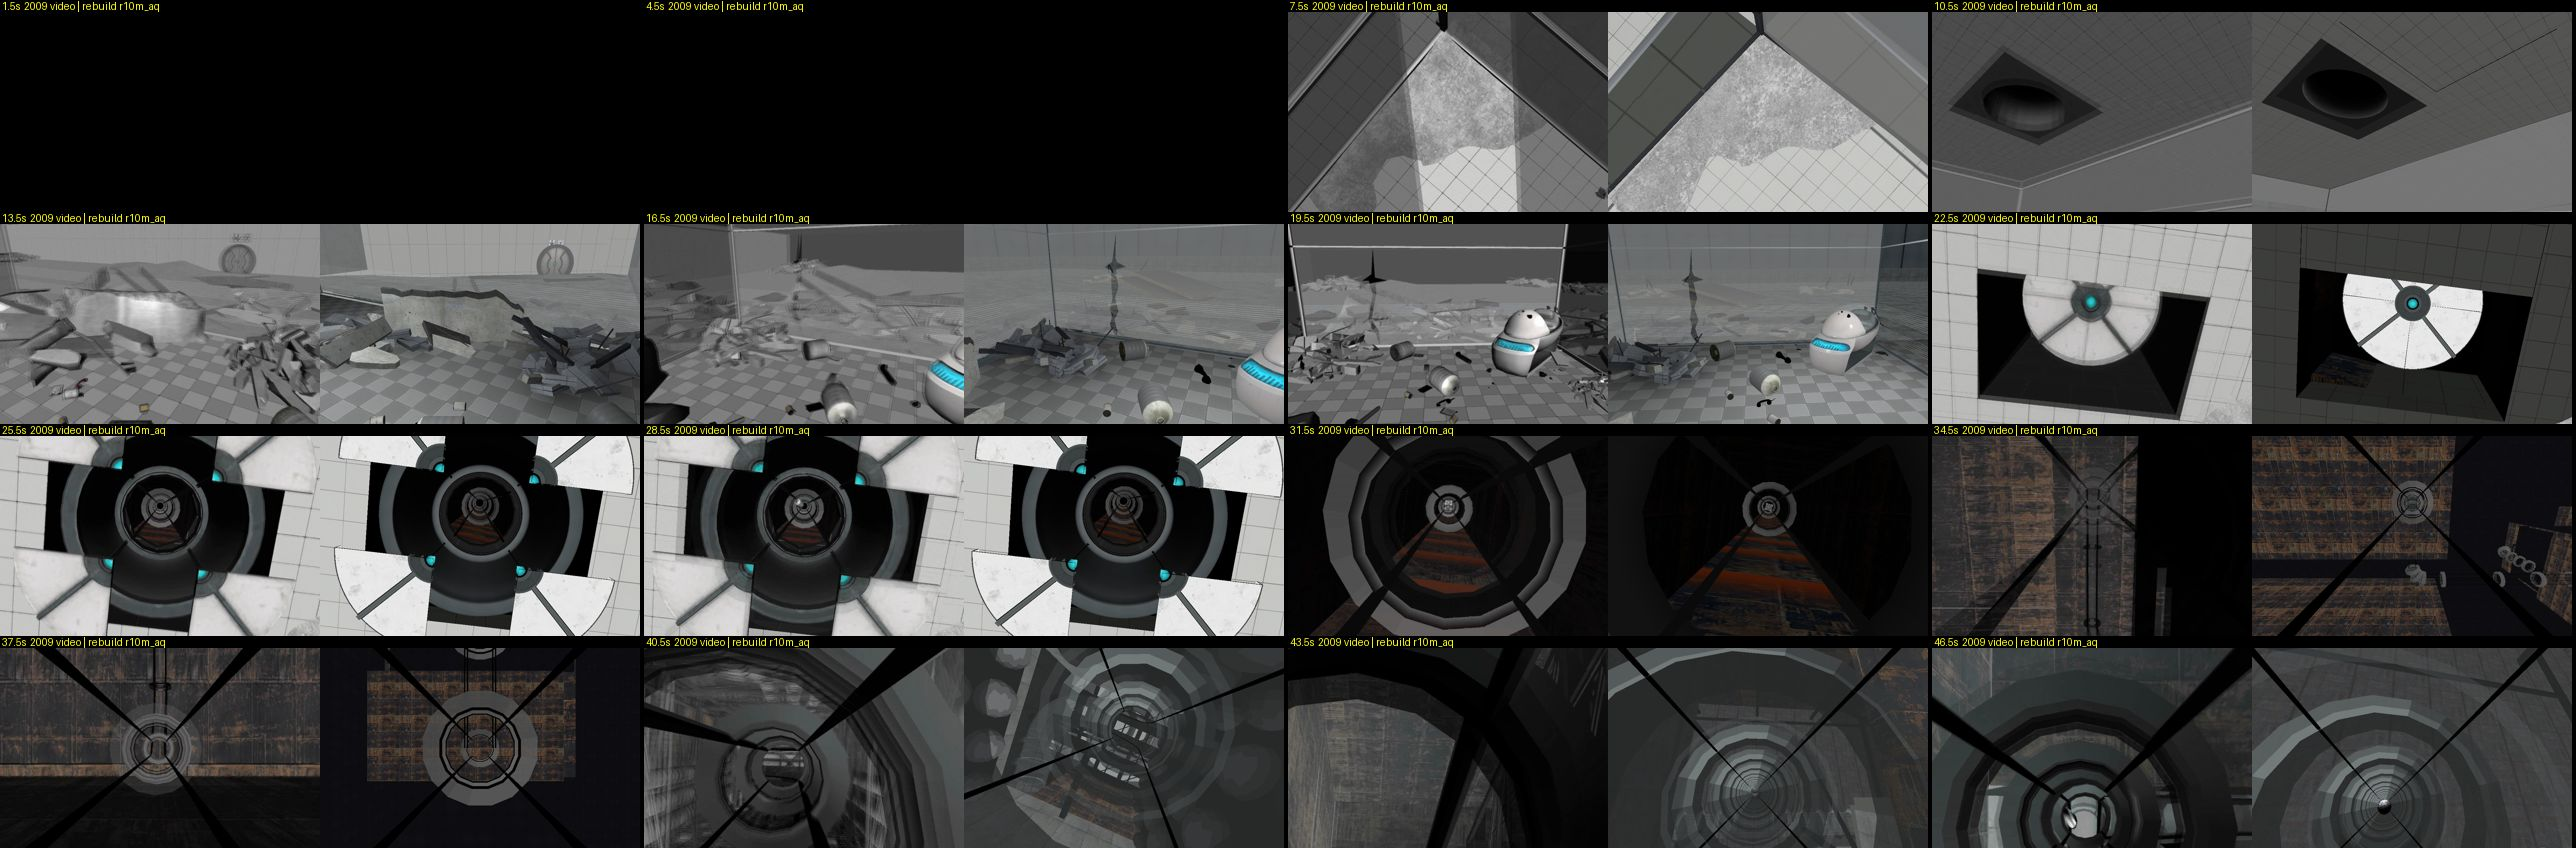
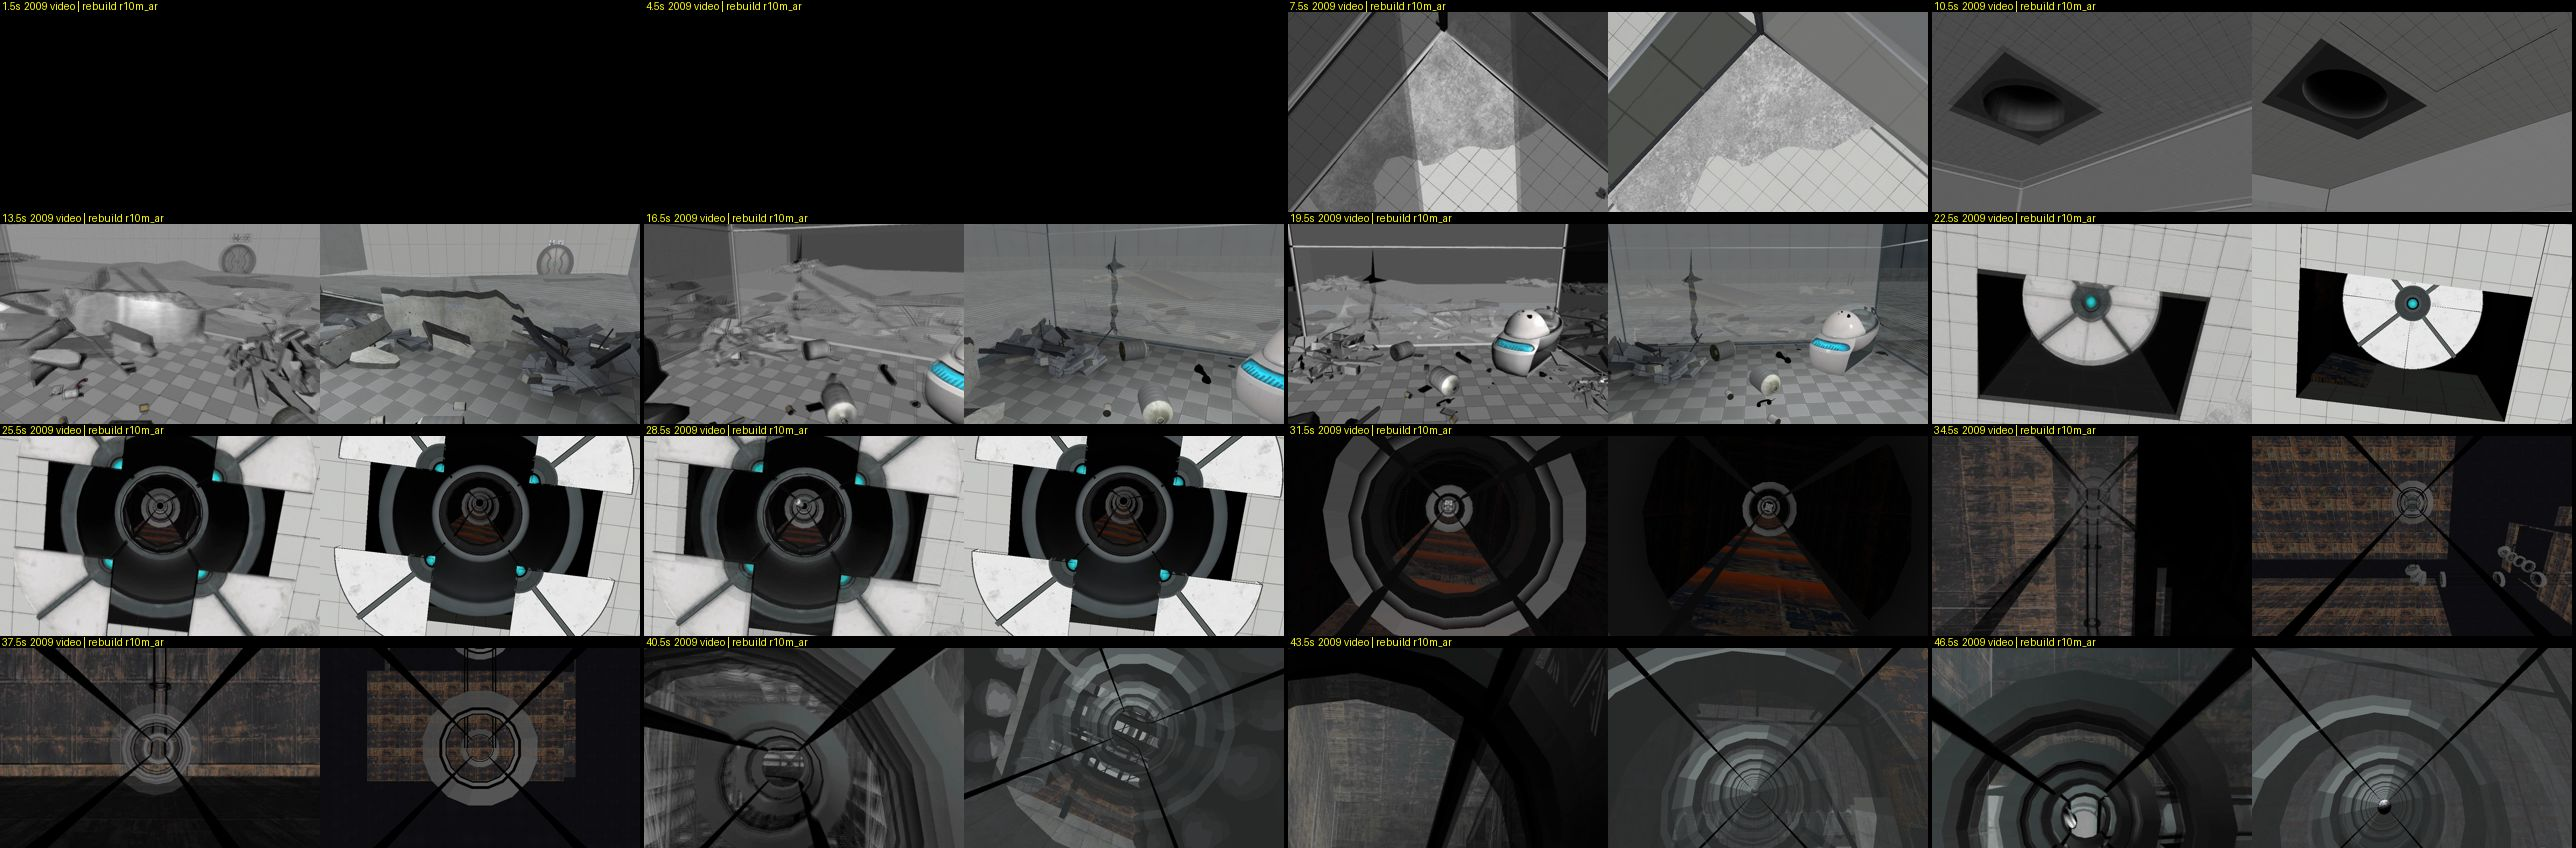
Corehub intro rebuild (corehub_r10ar + director_r10ar)
Separated middle rooms, frontal walls, WIP surfaces, 60 fps test runs; see corehub/intro/README.md for per-scene scores.

Claude-Session: https://claude.ai/code/session_014AMsH7FRGKMAJSenMpS1Ga

Changed region(s): [[0.8696, 0.2453, 1.0, 0.5212]]

diff --git a/corehub/intro/tools/patch_director.py b/corehub/intro/tools/patch_director.py
@@ -50,6 +50,18 @@ body = txt[start:end]
 rows = re.findall(r'\{t=([0-9.]+),a=Vector\(([-0-9.]+),([-0-9.]+),([-0-9.]+)\)\}', body)
 knots = {float(t): (float(a), float(b), float(c)) for t, a, b, c in rows}
 knots.update(edits)
+# r10as: pod-rise run (44-47 s) -- the video looks a little up and right down the tube (far end at ~43%, 70% of the frame),
+# then swings right at the pale crossing tube (47-48 s), looks up through the crossing (48.25 s) and faces the pale
+# wall that closes the tube (48.5-48.85 s) before the dark tube of the cube passage (49 s)
+edits2 = {44.0: (-19.0, -11.0, 0.0), 45.0: (-15.0, -11.0, 0.0), 45.5: (-14.0, -10.0, 0.0), 46.0: (-17.0, -8.0, 0.0), 46.5: (-15.0, -6.0, 0.0),
+          47.0: (-11.0, -26.0, 0.0), 47.25: (-4.0, -42.0, 0.0), 47.5: (-3.0, -55.0, 0.0), 47.75: (-2.0, -60.0, 0.0), 48.0: (-5.0, -45.0, 0.0),
+          48.25: (-35.0, -20.0, 0.0), 48.5: (-5.0, 0.0, 0.0), 48.75: (0.0, 0.0, 0.0), 48.85: (0.0, 0.0, 0.0),
+          # tower entrance: two shots joined by quick dissolves (56.5 and 58.6 s). Shot A looks straight at the collar from
+          # inside the tube; shot B starts further back, looking up and right at the collar, and tilts up the dark column
+          55.25: (-4.0, -9.0, 0.0), 55.5: (-4.0, -8.0, 0.0), 56.0: (-3.0, -7.0, 0.0), 56.25: (-2.0, -6.0, 0.0), 56.5: (-2.0, -6.0, 0.0), 56.51: (-2.0, -6.0, 0.0),
+          56.52: (-10.0, -16.0, 0.0), 57.0: (-13.0, -17.0, 0.0), 57.5: (-18.0, -19.0, 0.0), 58.0: (-28.0, -13.0, 0.0), 58.25: (-34.0, -13.0, 0.0),
+          58.5: (-37.0, -12.0, 0.0), 58.57: (-38.0, -12.0, 0.0), 58.58: (-16.0, 58.0, 0.0)}
+knots.update(edits2)
 new = 'knots <- [\n' + ',\n'.join('{t=%.8f,a=Vector(%.8f,%.8f,%.8f)}' % ((t,) + knots[t]) for t in sorted(knots)) + '\n'
 txt = txt[:start] + new + txt[end:]
 # Fades measured from the video's mean luminance around each cut (the cuts dissolve, they are not hard).
@@ -105,10 +117,24 @@ def repl(m):
             if abs(t - k) < 1e-4: return '{t=%s,p=Vector(%s,%s,%.8f)}' % (m.group(1), m.group(2), m.group(3), nz)
     return m.group(0)
 newpos = re.sub(r'\{t=([-\d.]+),p=Vector\(([-\d.]+),([-\d.]+),([-\d.]+)\)\}', repl, txt[ps:pe])
+# r10as: tower entrance -- shot A (55.25-56.5 s) approaches slowly inside the tube, shot B (56.52-58.57 s) starts ~245 units
+# from the collar and closes to ~150, then the 58.6 s dissolve goes to the climb inside the tower
+pos_set = {55.0: (3435.0, 0.0, 1152.0), 55.25: (3445.0, 0.0, 1152.0), 55.5: (3458.0, 0.0, 1152.0), 55.75: (3472.0, 0.0, 1152.0),
+           56.0: (3486.0, 0.0, 1152.0), 56.25: (3500.0, 0.0, 1152.0), 56.5: (3510.0, 0.0, 1152.0), 56.51: (3511.0, 0.0, 1152.0),
+           56.52: (3455.0, 0.0, 1152.0), 56.75: (3467.0, 0.0, 1152.0), 57.0: (3480.0, 0.0, 1152.0), 57.25: (3495.0, 0.0, 1152.0),
+           57.5: (3510.0, 0.0, 1152.0), 57.75: (3532.0, 0.0, 1152.0), 58.0: (3555.0, 0.0, 1152.0), 58.25: (3575.0, 0.0, 1152.0),
+           58.5: (3590.0, 0.0, 1152.0), 58.57: (3595.0, 0.0, 1152.0), 58.58: (3754.0, 0.0, 1306.0)}
+kn = [(float(a), (float(b), float(c), float(d))) for a, b, c, d in re.findall(r'\{t=([-\d.]+),p=Vector\(([-\d.]+),([-\d.]+),([-\d.]+)\)\}', newpos)]
+kd = dict(kn)
+for k, q in pos_set.items():
+    for t0 in list(kd):
+        if abs(t0 - k) < 1e-4: del kd[t0]
+    kd[k] = q
+newpos = 'positions <- [\n' + ',\n'.join('{t=%.8f,p=Vector(%.8f,%.8f,%.8f)}' % ((t,) + kd[t]) for t in sorted(kd)) + '\n'
 txt = txt[:ps] + newpos + txt[pe:]
 fades = [[62.9,63.05,0,235],[63.05,63.3,235,0],[52.45,52.55,0,110],[52.55,52.68,110,0],[38.70,38.9388,0,255],[39.2725,39.60,255,0],[53.83,54.1206,0,255],[54.8547,55.27,240,240],
          [55.27,55.47,240,0],[82.55,83.1829,40,255],[84.5510,84.97,255,0],[95.33,95.7288,0,255],
-         [104.97,105.305,0,255],[109.40,109.7094,0,255],[109.8428,110.6,255,0]]
+         [104.97,105.305,0,255],[56.37,56.52,0,75],[56.52,56.70,75,0],[58.42,58.58,0,100],[58.58,58.72,100,0],[109.40,109.7094,0,255],[109.8428,110.6,255,0]]
 anchor = '    SetScreenBlack(fadeAlpha);'
 assert txt.count(anchor) == 1
 txt = txt.replace(anchor, '    foreach(f in r10Fades) if(t>=f[0] && t<f[1]){local k=(t-f[0])/(f[1]-f[0]);local a=(f[2]+(f[3]-f[2])*k).tointeger();if(a>fadeAlpha)fadeAlpha=a;}\n' + anchor)
@@ -118,7 +144,7 @@ txt = txt.replace('cutTab <- [', 'r10LabCube <- [[99.8,7565],[100,7575],[100.5,7
 # cube passage (52-53.8 s): the video dissolves from the far cube to a close one at ~52.55 s; the cube jumps
 # closer under a short dip instead of drifting slowly toward the camera
 cube_old = 'for(local i=0;i<4;i++)MoveProp("intro_cube_"+i,t<55.5?Vector(3480+i*62-(cubeTime-52)*25,0,1152):Vector(0,0,-3000));'
-cube_new = 'for(local i=0;i<4;i++)MoveProp("intro_cube_"+i,(t<55.5&&t>=51.5)?Vector(Lerp1(r10CubeX,t)+i*62,0,1152):Vector(0,0,-3000));'   # r10ai: the video shows no cube before 51.6 s
+cube_new = 'for(local i=0;i<4;i++)MoveProp("intro_cube_"+i,(t<54.9&&t>=51.5)?Vector(Lerp1(r10CubeX,t)+i*62,0,1152):Vector(0,0,-3000));'   # r10as: gone before the 55.3 s fade-in; r10ai: the video shows no cube before 51.6 s
 assert txt.count(cube_old) == 1
 txt = txt.replace(cube_old, cube_new)
 txt = txt.replace('cutTab <- [', 'r10CubeX <- [[51,3420],[52,3394],[52.5,3437],[52.54,3437],[52.56,3295],[53.0,3339],[53.5,3386],[53.83,3418],[55.5,3480]];' + chr(10) + 'cutTab <- [', 1)
@@ -153,5 +179,13 @@ lk_new = """ {t=69.3,p=Vector(4549,9,1142)},
  {t=71.35,p=Vector(4549,9,1142)}"""
 assert txt.count(lk_old) == 1
 txt = txt.replace(lk_old, lk_new)
+# r10as: chrome drop ahead of the camera in the pod-rise run, turning off into the pale crossing tube at 47.1 s
+drop_old = 'MoveProp("intro_drop",(t>=44.0 && t<47.4)?Vector(Lerp1(dropTab,t),0,1150):Vector(0,0,-3000));'
+drop_new = ('{local p=Vector(0,0,-3000);if(t>=44.0&&t<47.6){for(local i=0;i<r10DropPath.len()-1;i++)if(t>=r10DropPath[i][0]&&t<=r10DropPath[i+1][0])'
+            '{local f=(t-r10DropPath[i][0])/(r10DropPath[i+1][0]-r10DropPath[i][0]);p=r10DropPath[i][1]+(r10DropPath[i+1][1]-r10DropPath[i][1])*f;break;};};'
+            'MoveProp("intro_drop",p);MoveProp("r10_tube_end",(t<48.85)?Vector(2812,0,1152):Vector(0,0,-3000));}')
+assert txt.count(drop_old) == 1
+txt = txt.replace(drop_old, drop_new)
+txt = txt.replace('cutTab <- [', 'r10DropPath <- [[44.0,Vector(2300,0,1150)],[45.0,Vector(2470,0,1150)],[46.0,Vector(2625,0,1150)],[46.5,Vector(2695,0,1150)],[47.0,Vector(2752,0,1150)],[47.2,Vector(2760,-40,1150)],[47.6,Vector(2760,-260,1150)]];' + chr(10) + 'cutTab <- [', 1)
 dst.write_text(txt)
 print('knots', len(rows), '->', len(knots), 'written', dst)

diff --git a/corehub/intro/tools/patch_r10.py b/corehub/intro/tools/patch_r10.py
@@ -506,6 +506,48 @@ box((7992, 300, -760), (7996, 980, 500), WIP_GRID, world=False)   # east side of
 # Missing-panel framing on the "16" wall's far side (upper corner, never finished).
 box((5012, 600, 1600), (5016, 1100, 2400), WIP_GRID, world=False)
 
+# ---------- r10as: pod rise (39.5-49 s) ----------
+# the video's pod-rise tube is dark grey; skin 2 read pale teal. The vertical rise and the run to the crossing use skin 1.
+dk2 = 0
+for e in v.entities:
+    if e['classname'].startswith('prop_') and e['model'] == 'models/corehub_intro/transport_ring.mdl':
+        o = Vec.from_str(e['origin'])
+        if (abs(o.x - 1856) < 2 and abs(o.y + 256) < 2 and 600 < o.z < 1000) or (2000 < o.x < 2740 and abs(o.y) < 2 and abs(o.z - 1152) < 2):
+            e['skin'] = '1'; dk2 += 1
+print('pod rise rings darkened', dk2)
+# the run ends at a pale tube crossing at tube height (video 46.5-48 s): the side tube at x 2760 (z 1010) is raised to the
+# tube and made pale; its ring on the camera's path is dropped
+side = 0
+for e in list(v.entities):
+    if e['classname'].startswith('prop_') and e['model'] == 'models/corehub_intro/transport_ring.mdl':
+        o = Vec.from_str(e['origin'])
+        if abs(o.x - 2760) < 2 and abs(o.z - 1010) < 2 and abs(o.y) <= 401:
+            if abs(o.y) < 2: v.remove_ent(e); continue
+            e['origin'] = f'{o.x:g} {o.y:g} 1152'; e['model'] = 'models/corehub_intro/transport_ring_pale.mdl'; e['skin'] = '0'; side += 1
+print('pale crossing tube rings', side)
+# the pale wall closing the tube beyond the crossing: the white far end at 44-47 s and the white frame at 48.3-48.85 s;
+# the director moves it away before the camera reaches it
+v.create_ent('prop_dynamic_override', targetname='r10_tube_end', model='models/corehub_intro/r10_tube_end.mdl', origin='2812 0 1152',
+             angles='0 0 0', solid='0', disableshadows='1')
+# the chrome drop reads as a white ball a few rings ahead in the video
+for e in v.entities:
+    if e['targetname'] == 'intro_drop': e['modelscale'] = '2.8'; print('drop scaled')
+# the walls round the vertical rise were white tiles; the video sees dark walls between the pods
+POD_BG = unlit('pod_bg', 'metal/black_wall_metal_001a', '0.34 0.34 0.34')
+pw = 0
+for e in v.entities:
+    if e['classname'] != 'func_detail': continue
+    for so in e.solids:
+        lo, hi = so.get_bbox()
+        if hi.x > 1680 and lo.x < 2140 and hi.y > -420 and lo.y < 30 and lo.z >= 630 and hi.z <= 1345:
+            for f in so.sides:
+                if f.mat.lower() == 'corehub_intro/white_u': f.mat = POD_BG; pw += 1
+print('pod shaft wall faces darkened', pw)
+for e in v.entities:
+    if e['classname'].startswith('prop_') and e['model'] == 'models/corehub_intro/pod_wall.mdl' and e['rendercolor'] == '255 255 255':
+        e['rendercolor'] = '170 170 172'
+# skylights over the pod room: dimmer still (the video shows thin light strips in a dark truss at 42 s)
+SKY2 = unlit('skylight_dim', 'lights/white002', '0.40 0.41 0.41')
 dst = R10 / 'build' / (NAME + '.vmf')
 v.export(dst.open('w'), inc_version=False)
 print('wrote', dst, len(added), 'boxes')

diff --git a/corehub/intro/README.md b/corehub/intro/README.md
@@ -38,12 +38,12 @@ r10 is built on top of the newest pursuit9 map (capsule-follow v50: walkable ope
 
 ## Scores (1–10, against the 2009 video; ending blink/black not scored)
 
-Published build: `corehub_r10aq` + `director_r10aq` (outputs/Corehub-Intro). Test run: `videos/r10m_aq_side.mp4`. In test: r10ar.
+Published build: `corehub_r10ar` + `director_r10ar` (outputs/Corehub-Intro). Test run: `videos/r10m_ar_side.mp4`.
 
 | # | Scene | Time (s) | v50 base | r10 now | Main remaining differences |
 |---|---|---|---|---|---|
-| 1 | Opening room | 0–22 | 7.5 | 8.5 | ceiling bright/neutral looking up and dark at grazing angles; far wall and chamber glass toned to the video (r10ar test); rubble shapes |
-| 2 | Iris and ascent | 22–32.5 | 7.5 | 8.5 | ceiling bright again as the camera looks up at the iris (r10ar test); iris petal edge shading |
+| 1 | Opening room | 0–22 | 7.5 | 8.5 | ceiling bright/neutral looking up and dark at grazing angles; far wall and chamber glass toned to the video; rubble shapes |
+| 2 | Iris and ascent | 22–32.5 | 7.5 | 8.5 | ceiling bright again as the camera looks up at the iris (22.5 s); iris petal edge shading |
 | 3 | Rust room | 32.5–39 | 4 | 7.5 | far wall cut to the lit panel, dark C-bend, post under the ring (33 s); 34–36 s framings still off |
 | 4 | Pod rise | 39.5–47.5 | 4 | 7.5 | longer climb in the tube with grey structure above (40–41.5 s); the turn no longer runs into the pods; pods read as round blobs |
 | 5 | Cube passage | 48–55 | 4.5 | 8.5 | cube hidden until 51.5 s like the video; 48.5 s pale tube interior |
@@ -53,7 +53,7 @@ Published build: `corehub_r10aq` + `director_r10aq` (outputs/Corehub-Intro). Tes
 | 9 | Copper tube, sludge room, gallery | 84.5–95.7 | 4 | 7.5 | lattice towers both sides (84.6–85.5 s); rises out of the tube and drops down a copper funnel into the chamber (86.2–87.2 s) |
 | 10 | Factory passage | 96.6–99.8 | 6 | 7.5 | warmer, brighter factory materials; one-frame black arm silhouette at 98 s |
 | 11 | Lab and test chamber | 100–109.5 | 4 | 8.5 | chamber view matches (receptacle, checker, button, strip, black tiles); copper drop onto the receptacle |
-| 12 | Incinerator and final probes | 110–118.4 | 5.5 | 8 | yellow glowing ball drops with the discarded parts (larger in r10ar test); 116.75 s view |
+| 12 | Incinerator and final probes | 110–118.4 | 5.5 | 8 | yellow glowing ball drops with the discarded parts; the video's ball passes closer (115 s); 116.75 s view |
 | 13 | Capsule and ending | 118.4–134 | 6 | 8 | capsule frost/cracks, 123.4 s flat grey patch |
 
 ## Objective check
